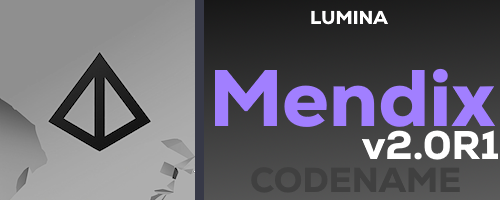
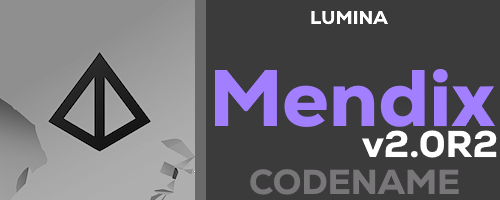
Mendix HotFix v2.0R2

Changed region(s): [[0.39, 0.0, 1.0, 1.0], [0.45, 0.84, 1.0, 1.0], [0.72, 0.63, 1.0, 0.81]]

diff --git a/XML/GlobalPaths.cs b/XML/GlobalPaths.cs
@@ -67,6 +67,6 @@ namespace Lumina.XML
         /// <summary>
         /// Returns the version.
         /// </summary>
-        public static string Version = "2.0R1";
+        public static string Version = "2.0R2";
     }
 }
